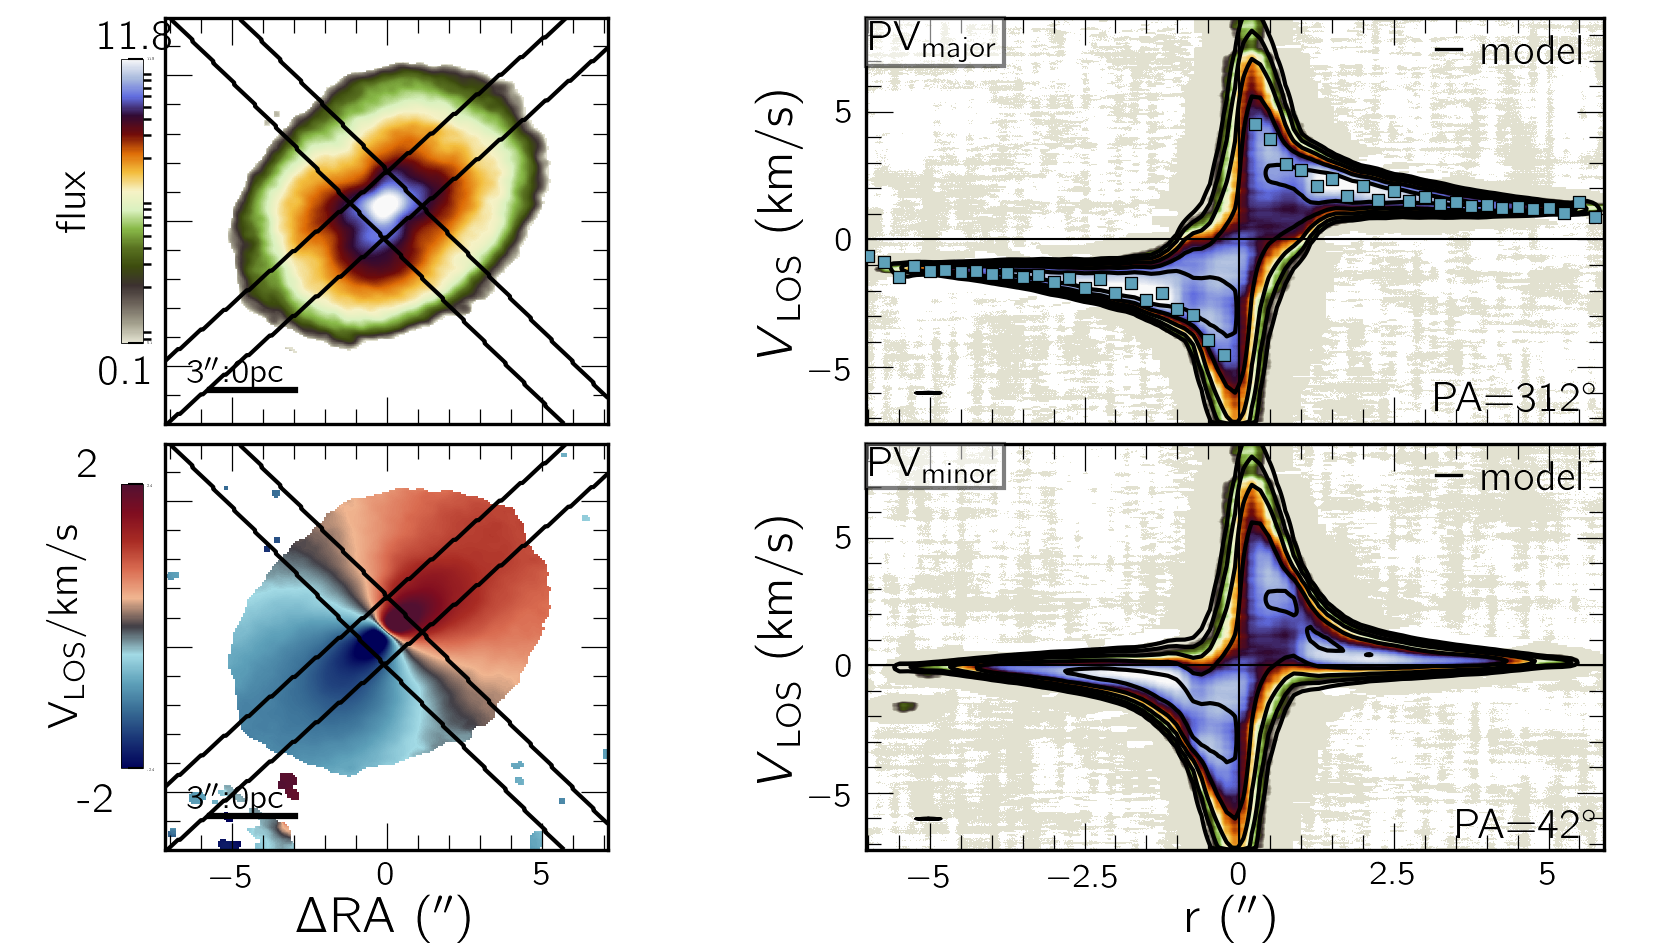
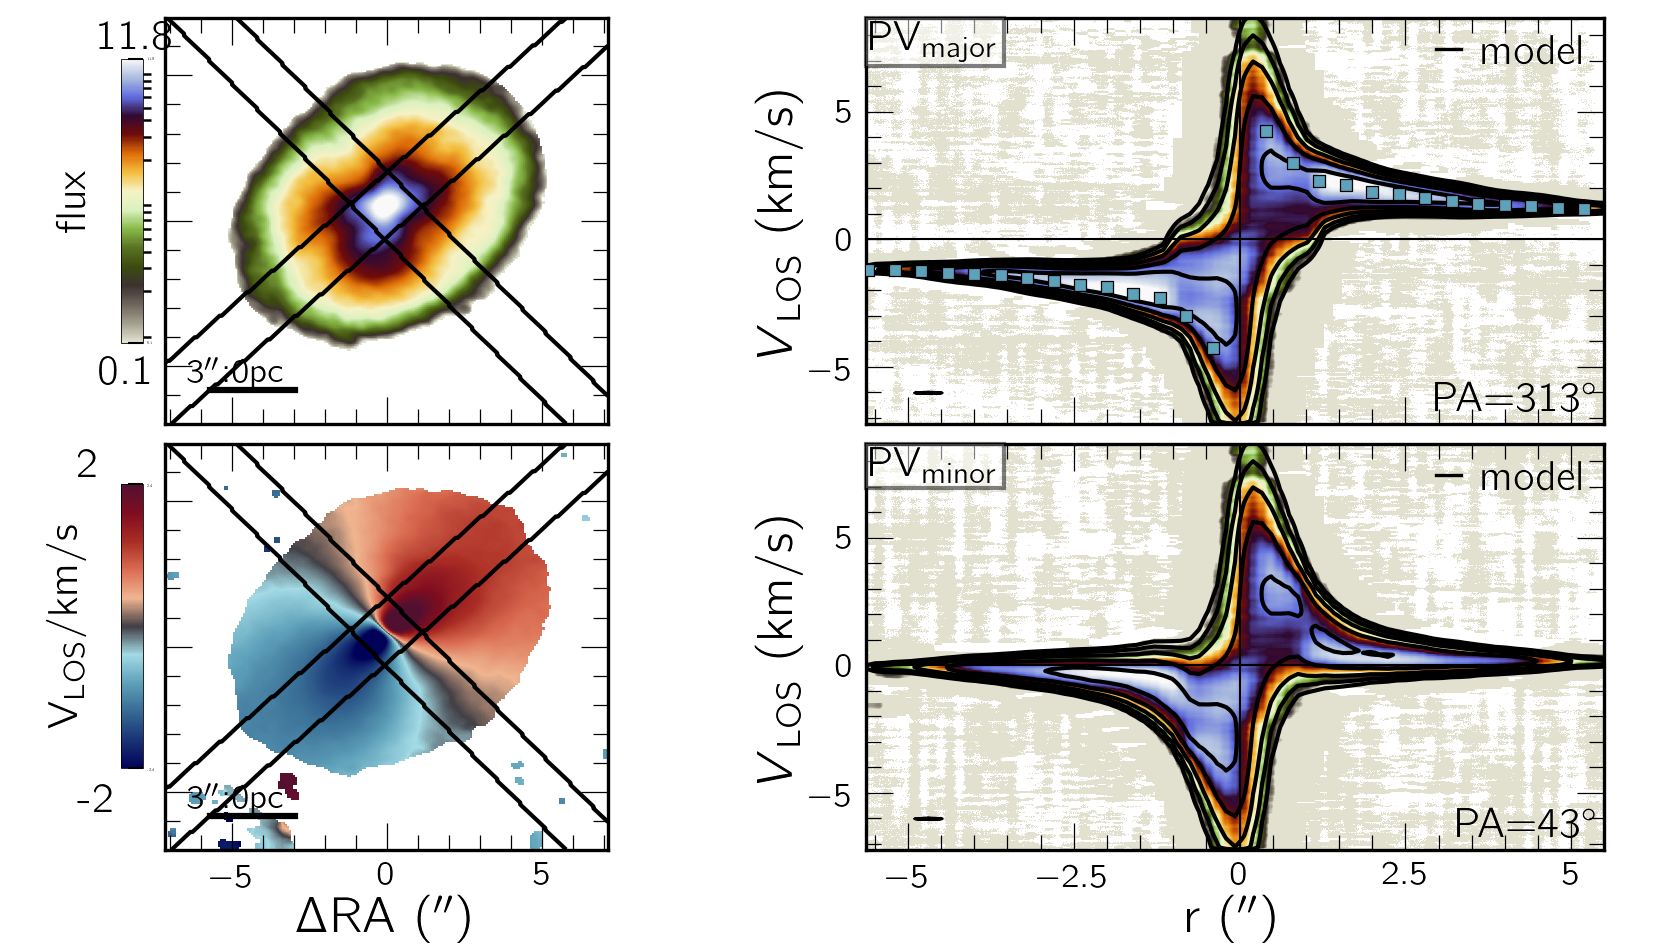
XookSuut3D_v1.0.0

diff --git a/src0/harmonic_mode.py b/src0/harmonic_mode.py
@@ -11,6 +11,7 @@ from src0.create_2D_vlos_model import best_2d_model
 from src0.read_hdr import Header_info
 import os
 from multiprocessing import Pool, cpu_count
+from src0.pixel_params import inc_2_eps, eps_2_inc,e_eps2e_inc
 
 class Harmonic_model:
 	def __init__(self, galaxy, datacube, edatacube, header, mommaps, emoms, guess0, vary, n_it, rstart, rfinal, ring_space, frac_pixel, inner_interp, delta, bar_min_max, config, m_hrm, outdir,cube_class):
@@ -156,13 +157,16 @@ class Harmonic_model:
 			mommaps=[mom0_cube[k],mom1_cube[k],mom2_cube[k]]
 			emommaps=[emom0,emom1,emom2]			
 			
-			seed0 = int(os.getpid()*time.time() / 123456789)
 			self.pa0,self.eps0,self.x0,self.y0,self.vsys0,self.theta_b = self.GUESS[-6:]
+			np.random.seed()
+			pa = self.pa0 + 5*np.random.normal()
+			inc= eps_2_inc(self.eps0) + (5*np.pi/180)*np.random.normal() # rad
+			eps=inc_2_eps(inc*180/np.pi) 
 			# setting chisq to -inf will preserve the leastsquare results
 			self.chisq_global = -np.inf
 			if (k+1) % 5 == 0 : print("%s/%s \t bootstraps" %((k+1),self.n_boot))
 								
-			disp_tab, c_tab, s_tab, R_pos = tab_mod_vels(self.Rings,mommaps, emommaps, self.pa0,self.eps0,self.x0,self.y0,self.vsys0,self.theta_b,self.delta,self.pixel_scale,self.vmode,self.shape,self.frac_pixel,self.r_bar_min, self.r_bar_max, self.m_hrm)			
+			disp_tab, c_tab, s_tab, R_pos = tab_mod_vels(self.Rings,mommaps, emommaps,pa,eps,self.x0,self.y0,self.vsys0,self.theta_b,self.delta,self.pixel_scale,self.vmode,self.shape,self.frac_pixel,self.r_bar_min, self.r_bar_max, self.m_hrm)			
 			c_tab=[list(c_tab[j]) for j in range(self.m_hrm)]
 			s_tab=[list(s_tab[j]) for j in range(self.m_hrm)]			
 			kin=[c_tab, s_tab, disp_tab]

diff --git a/src0/circular_mode.py b/src0/circular_mode.py
@@ -10,6 +10,7 @@ from src0.tools_fits import array_2_fits
 from src0.create_2D_vlos_model import best_2d_model
 from src0.read_hdr import Header_info
 from multiprocessing import Pool, cpu_count
+from src0.pixel_params import inc_2_eps, eps_2_inc,e_eps2e_inc
 import matplotlib.pylab as plt
 #first_guess_it = []
 
@@ -148,12 +149,15 @@ class Circular_model:
 			mommaps=[mom0_cube[k],mom1_cube[k],mom2_cube[k]]
 			emommaps=[emom0,emom1,emom2]			
 		
-			seed0 = int(os.getpid()*time.time() / 123456789)
 			self.pa0,self.eps0,self.x0,self.y0,self.vsys0,self.theta_b = self.GUESS[-6:]
+			np.random.seed()
+			pa = self.pa0 + 5*np.random.normal()
+			inc= eps_2_inc(self.eps0) + (5*np.pi/180)*np.random.normal() # rad
+			eps=inc_2_eps(inc*180/np.pi) 
 			# setting chisq to -inf will preserve the leastsquare results
 			self.chisq_global = -np.inf
 			if (k+1) % 5 == 0 : print("%s/%s \t bootstraps" %((k+1),self.n_boot))
-			disp_tab, vrot_tab, vrad_tab, vtan_tab, R_pos = tab_mod_vels(self.Rings,mommaps, emommaps, self.pa0,self.eps0,self.x0,self.y0,self.vsys0,self.theta_b,self.delta,self.pixel_scale,self.vmode,self.shape,self.frac_pixel,self.r_bar_min, self.r_bar_max)
+			disp_tab, vrot_tab, vrad_tab, vtan_tab, R_pos = tab_mod_vels(self.Rings,mommaps,emommaps,pa,eps,self.x0,self.y0,self.vsys0,self.theta_b,self.delta,self.pixel_scale,self.vmode,self.shape,self.frac_pixel,self.r_bar_min, self.r_bar_max)
 			vels=list(disp_tab)+list(vrot_tab)+list(vrad_tab)+list(vtan_tab)
 			#self.bootstrap_kin[k,:len(vels)] = np.asarray(vels)
 

diff --git a/src0/convolve_cube.py b/src0/convolve_cube.py
@@ -113,7 +113,7 @@ class Cube_creation:
 			np.random.seed()
 			# randomly draw a sample of the observed spectrum
 			newfluxcube=self.datacube+np.random.randn(self.nz,self.ny,self.nx)*self.eflux3d
-			newspectral=self.wave_cover_kms[:,None,None]+np.random.randn(self.ny,self.nx)*self.emom1
+			newspectral=self.wave_cover_kms[:,None,None]# +np.random.randn(self.ny,self.nx)*self.emom1
 			#for i,j in product(np.arange(self.nx),np.arange(self.ny)):
 			#	fi = interpolate.interp1d(newspectral[:,j,i],newfluxcube[:,j,i],fill_value='extrapolate')	
 			#	newfluxcube[:,j,i]=fi(self.wave_cover_kms)            				
